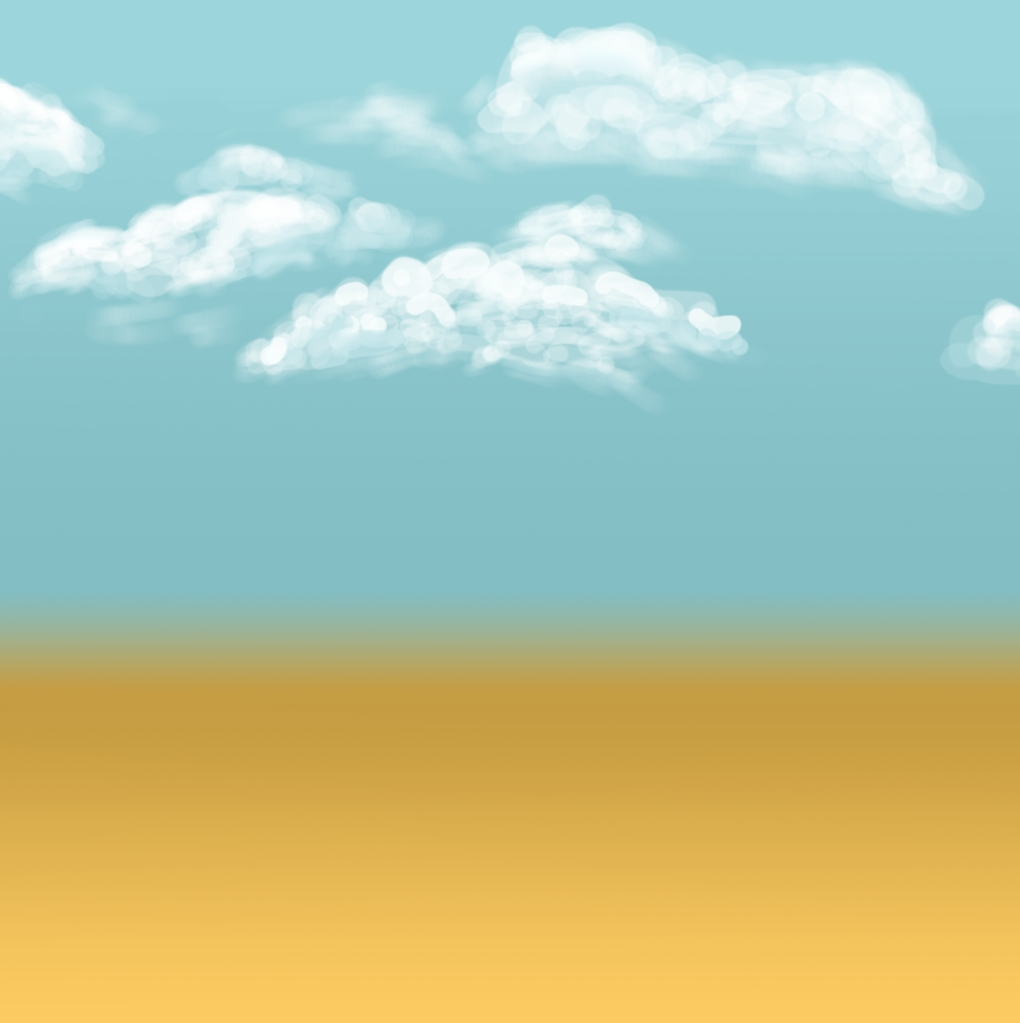
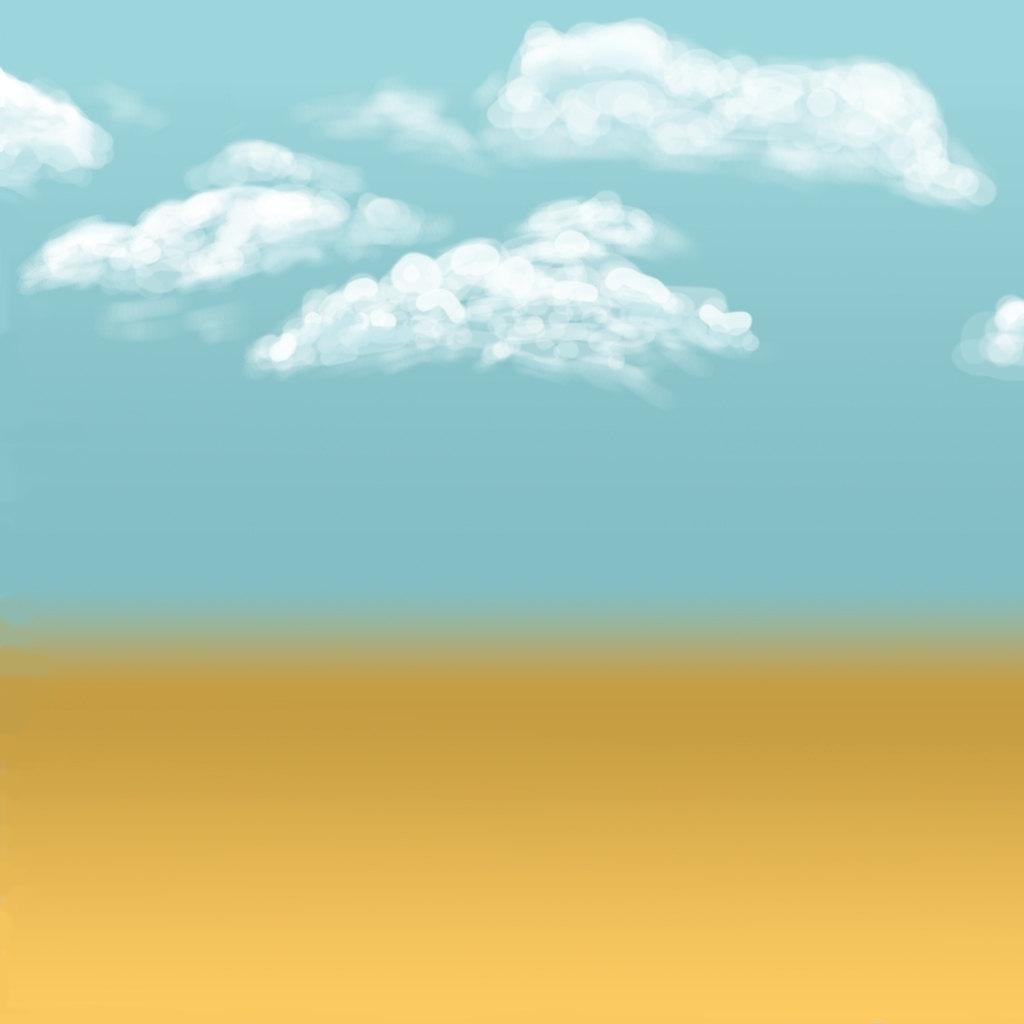
STUFF

diff --git a/Client/myGame/MyGame.java b/Client/myGame/MyGame.java
@@ -49,7 +49,7 @@ public class MyGame extends VariableFrameRateGame {
 	private double startTime, prevTime, elapsedTime, amt;
 
 	private Quaternionf QuatFwd, QuatRight, QuatUp;
-	private GameObject tor, avatar, x, y, z, terr, weopon, dol1, dol2, plane, gernade, aimsphere, smallaimsphere;
+	private GameObject tor, avatar, x, y, z, terr, weopon, dol1, dol2, plane, gernade, aimsphere, smallaimsphere, locaimsphere;
 	private TerrainCollision ground;
 	private ObjShape torS, ghostS, avaS, linxS, linyS, linzS, terrS, dolS, wepS, gernadeS, aimsphereS;
 	private TextureImage avaT, ghostT, hills, grass, dolT, wepT, gernadeT, glockT;
@@ -193,7 +193,7 @@ public class MyGame extends VariableFrameRateGame {
 		avatar.setLocalRotation(initialRotation);
 		initialScale = (new Matrix4f()).scaling(0.2f);
 		avatar.setLocalScale(initialScale);
-		//avatar.getRenderStates().disableRendering();
+		avatar.getRenderStates().disableRendering();
 		avatar.getRenderStates().hasLighting(true);
 		//avatar.getRenderStates().isEnvironmentMapped(true);
 
@@ -203,11 +203,12 @@ public class MyGame extends VariableFrameRateGame {
 		initialScaleAim = (new Matrix4f()).scaling(10f);
 		aimsphere.setLocalScale(initialScaleAim);
 		aimsphere.setParent(avatar);
+
 		initialTranslationAim = (new Matrix4f()).translation(0f,0.5f, 0f);
 		aimsphere.setLocalTranslation(initialTranslationAim);
 		//aimsphere.getRenderStates().disableRendering();
 		aimsphere.getRenderStates().setWireframe(true);
-	    //aimsphere.applyParentRotationToPosition(true);
+	    aimsphere.applyParentRotationToPosition(true);
 
 		//build avatar weopon
 		weopon = new GameObject(GameObject.root(), glockS, glockT);
@@ -237,9 +238,13 @@ public class MyGame extends VariableFrameRateGame {
 		smallaimsphere.setLocalTranslation(initialTranslationSmallAim);
 		smallaimsphere.setParent(aimsphere);
 		smallaimsphere.applyParentRotationToPosition(true);
+		smallaimsphere.getRenderStates().disableRendering();
 		//smallaimsphere.propagateRotation(true);
 		
-
+		locaimsphere =	new GameObject(GameObject.root(),aimsphereS,glockT);
+		locaimsphere.setLocalScale(initialScaleAim);
+		locaimsphere.setParent(aimsphere);
+		
 
 
 
@@ -268,10 +273,6 @@ public class MyGame extends VariableFrameRateGame {
 		terr.setHeightMap(hills);
 		terr.getRenderStates().setTiling(1);
 		terr.getRenderStates().setTileFactor(10);
-
-
-		//BvhTriangleMeshShape ground = new createTerrainShapeFromGameObject(terr);
-		
 		
 	}
 
@@ -577,6 +578,8 @@ public class MyGame extends VariableFrameRateGame {
 		//c.setN(new Vector3f(n.x(), n.y(), n.z()));
 	}
 
+	//@Override
+	//public void MouseEvent(MouseEvent )
 	@Override
 	public void keyPressed(KeyEvent e) {
 		switch (e.getKeyCode()) {
@@ -765,6 +768,14 @@ public class MyGame extends VariableFrameRateGame {
 			
 	}
 
+	// Function to check if a vector is horizontal
+    public static boolean isHorizontal(Vector3f vector) {
+        // Assuming "horizontal" means having a small y-component and large x- and z-components
+        // You can adjust the threshold values according to your needs
+        float threshold = 0.1f;
+        return Math.abs(vector.y) < threshold; // Assuming y-component is up direction
+    }
+
 	public void pitchyaw(float mouseDeltaX, float mouseDeltaY)
 	{	Matrix4f leftRotation, rightRotation, upRotation, downRotation;
 		float tiltX;
@@ -774,19 +785,16 @@ public class MyGame extends VariableFrameRateGame {
 		Vector3f rightVector = c.getU();
 		Vector3f upVector = c.getV();
 		Vector3f fwdVector = c.getN();
+		
 
 		if (mouseDeltaX < 0.0) {
 		tiltX = 0.1f;
-		//rrc.enable();
-		//rrc.toggle();
-		//rrc.disable();
 		}
 		else if (mouseDeltaX > 0.0) {
 		 tiltX = -0.1f;
-		// rrc.enable();
 		}
 		else {tiltX = 0.0f;
-			//rrc.disable();
+
 		}
 		//MouseDeltaY
 		if (mouseDeltaY < 0.0) {
@@ -798,18 +806,60 @@ public class MyGame extends VariableFrameRateGame {
 			tiltY = 0.0f;
 		}
 
-		leftRotation = (new Matrix4f()).rotationY((float) java.lang.Math.toRadians(tiltX*0.01f));
-		rightRotation = (new Matrix4f()).rotationY((float) java.lang.Math.toRadians(-tiltX*0.01f));
+	Vector3f cameraForward = c.getN();
+        
+
+	Vector3f worldUp = new Vector3f(0,1,0);
+	Vector3f worldDown = new Vector3f(0,-1,0);
+
+
+
+	float angleUp = cameraForward.angle(worldUp);
+	float angleDown = cameraForward.angle(worldUp);
 	
-		if (tiltX != 0) {
+	// Convert the angle from radians to degrees
+	float angleDegreesUp = (float) Math.toDegrees(angleUp);
+	float angleDegreesDown = (float) Math.toDegrees(angleDown);
+	
+
+		if (angleDegreesDown < 130)	{
+			if (tiltX != 0) {
+				avatar.yaw(tiltX); }
+				if (tiltY != 0) {
+					avatar.pitch(tiltY); }
+				c.lookAt(smallaimsphere);
+
+		}
+		if (angleDegreesUp > 30)	
+		{
+			if (tiltX != 0) {
+				avatar.yaw(tiltX); }
+				if (tiltY != 0) {
+					avatar.pitch(tiltY); }
+				c.lookAt(smallaimsphere);
+
+		}
+		if (angleDegreesUp <= 30) {
+			avatar.pitch(-.2f);
+			c.lookAt(smallaimsphere);
+
+
+		}
+		 if (angleDegreesUp >= 130) {
+			avatar.pitch(.2f);
+			c.lookAt(smallaimsphere);
+
+		}
+		
+		/* 
+	if (tiltX != 0) {
 		avatar.yaw(tiltX); }
 		if (tiltY != 0) {
 			avatar.pitch(tiltY); }
 		c.lookAt(smallaimsphere);
-		//aimsphere.pitch(tiltX);
-		//aimsphere.setLocalRotation(leftRotation);
-		//aimsphere.setLocalRotation(rightRotation);
+		*/
 	}
+	
 	protected void processNetworking(float elapsTime) {        // Process packets received by the client from the server
 		if (protClient != null)
 			protClient.processPackets();
@@ -837,7 +887,7 @@ public class MyGame extends VariableFrameRateGame {
 
 	@Override
 	public void loadSkyBoxes() {
-		fluffyClouds = (engine.getSceneGraph()).loadCubeMap("fluffyClouds");
+		fluffyClouds = (engine.getSceneGraph()).loadCubeMap("desert");
 		lakeIslands = (engine.getSceneGraph()).loadCubeMap("lakeIslands");
 		(engine.getSceneGraph()).setActiveSkyBoxTexture(fluffyClouds);
 		(engine.getSceneGraph()).setSkyBoxEnabled(true);

diff --git a/Client/tage/input/action/TurnAction.java b/Client/tage/input/action/TurnAction.java
@@ -2,10 +2,9 @@ package tage.input.action;
 import myGame.*;
 import net.java.games.input.Event;
 import tage.*;
+import tage.input.InputManager;
 import tage.input.action.AbstractInputAction;
 import org.joml.*;
-import org.joml.Vector3f;
-import org.joml.Vector4f;
 
 /** <code>TurnAction</code> extends AbstractInputAction, it gets the game
  * and performs the action of turning left or right.
@@ -23,6 +22,8 @@ public class TurnAction extends AbstractInputAction{
         private GameObject dol;
         private Matrix4f oldRotation, rotAroundDolUp, newRotation;
         private Vector4f oldUp;
+        private Vector3f oldPosition, newPosition;
+        private Vector4f fwdDirection;
         private MyGame game;
         private ProtocolClient protClient;
         /** Gets the Game to apply the action to
@@ -45,14 +46,27 @@ public class TurnAction extends AbstractInputAction{
                 if(event.equals("A"))
                 {
                         dol = game.getDol();
-                        angle = -0.025f;
-                        dol.yaw(angle);
+                        //angle = -0.025f;
+                        //dol.yaw(angle);
+
+                        oldPosition = dol.getWorldLocation();
+                        fwdDirection = new Vector4f(1f,0f,0f,1f);
+                        fwdDirection.mul(dol.getWorldRotation());
+                        fwdDirection.mul(0.025f);
+                        newPosition = oldPosition.add(fwdDirection.x(), fwdDirection.y(), fwdDirection.z());
+                        dol.setLocalLocation(newPosition);
                 }else{
                         if(event.equals("D"))
                         {
                                 dol = game.getDol();
-                                angle = 0.025f;
-                                dol.yaw(angle);
+                                //angle = 0.025f;
+                                //dol.yaw(angle);
+                        oldPosition = dol.getWorldLocation();
+                        fwdDirection = new Vector4f(1f,0f,0f,1f);
+                        fwdDirection.mul(dol.getWorldRotation());
+                        fwdDirection.mul(-0.025f);
+                        newPosition = oldPosition.add(fwdDirection.x(), fwdDirection.y(), fwdDirection.z());
+                        dol.setLocalLocation(newPosition);
                         }else{
                                 float keyValue = e.getValue();
                                 if (keyValue > -.2 && keyValue < .2) return; // deadzone
